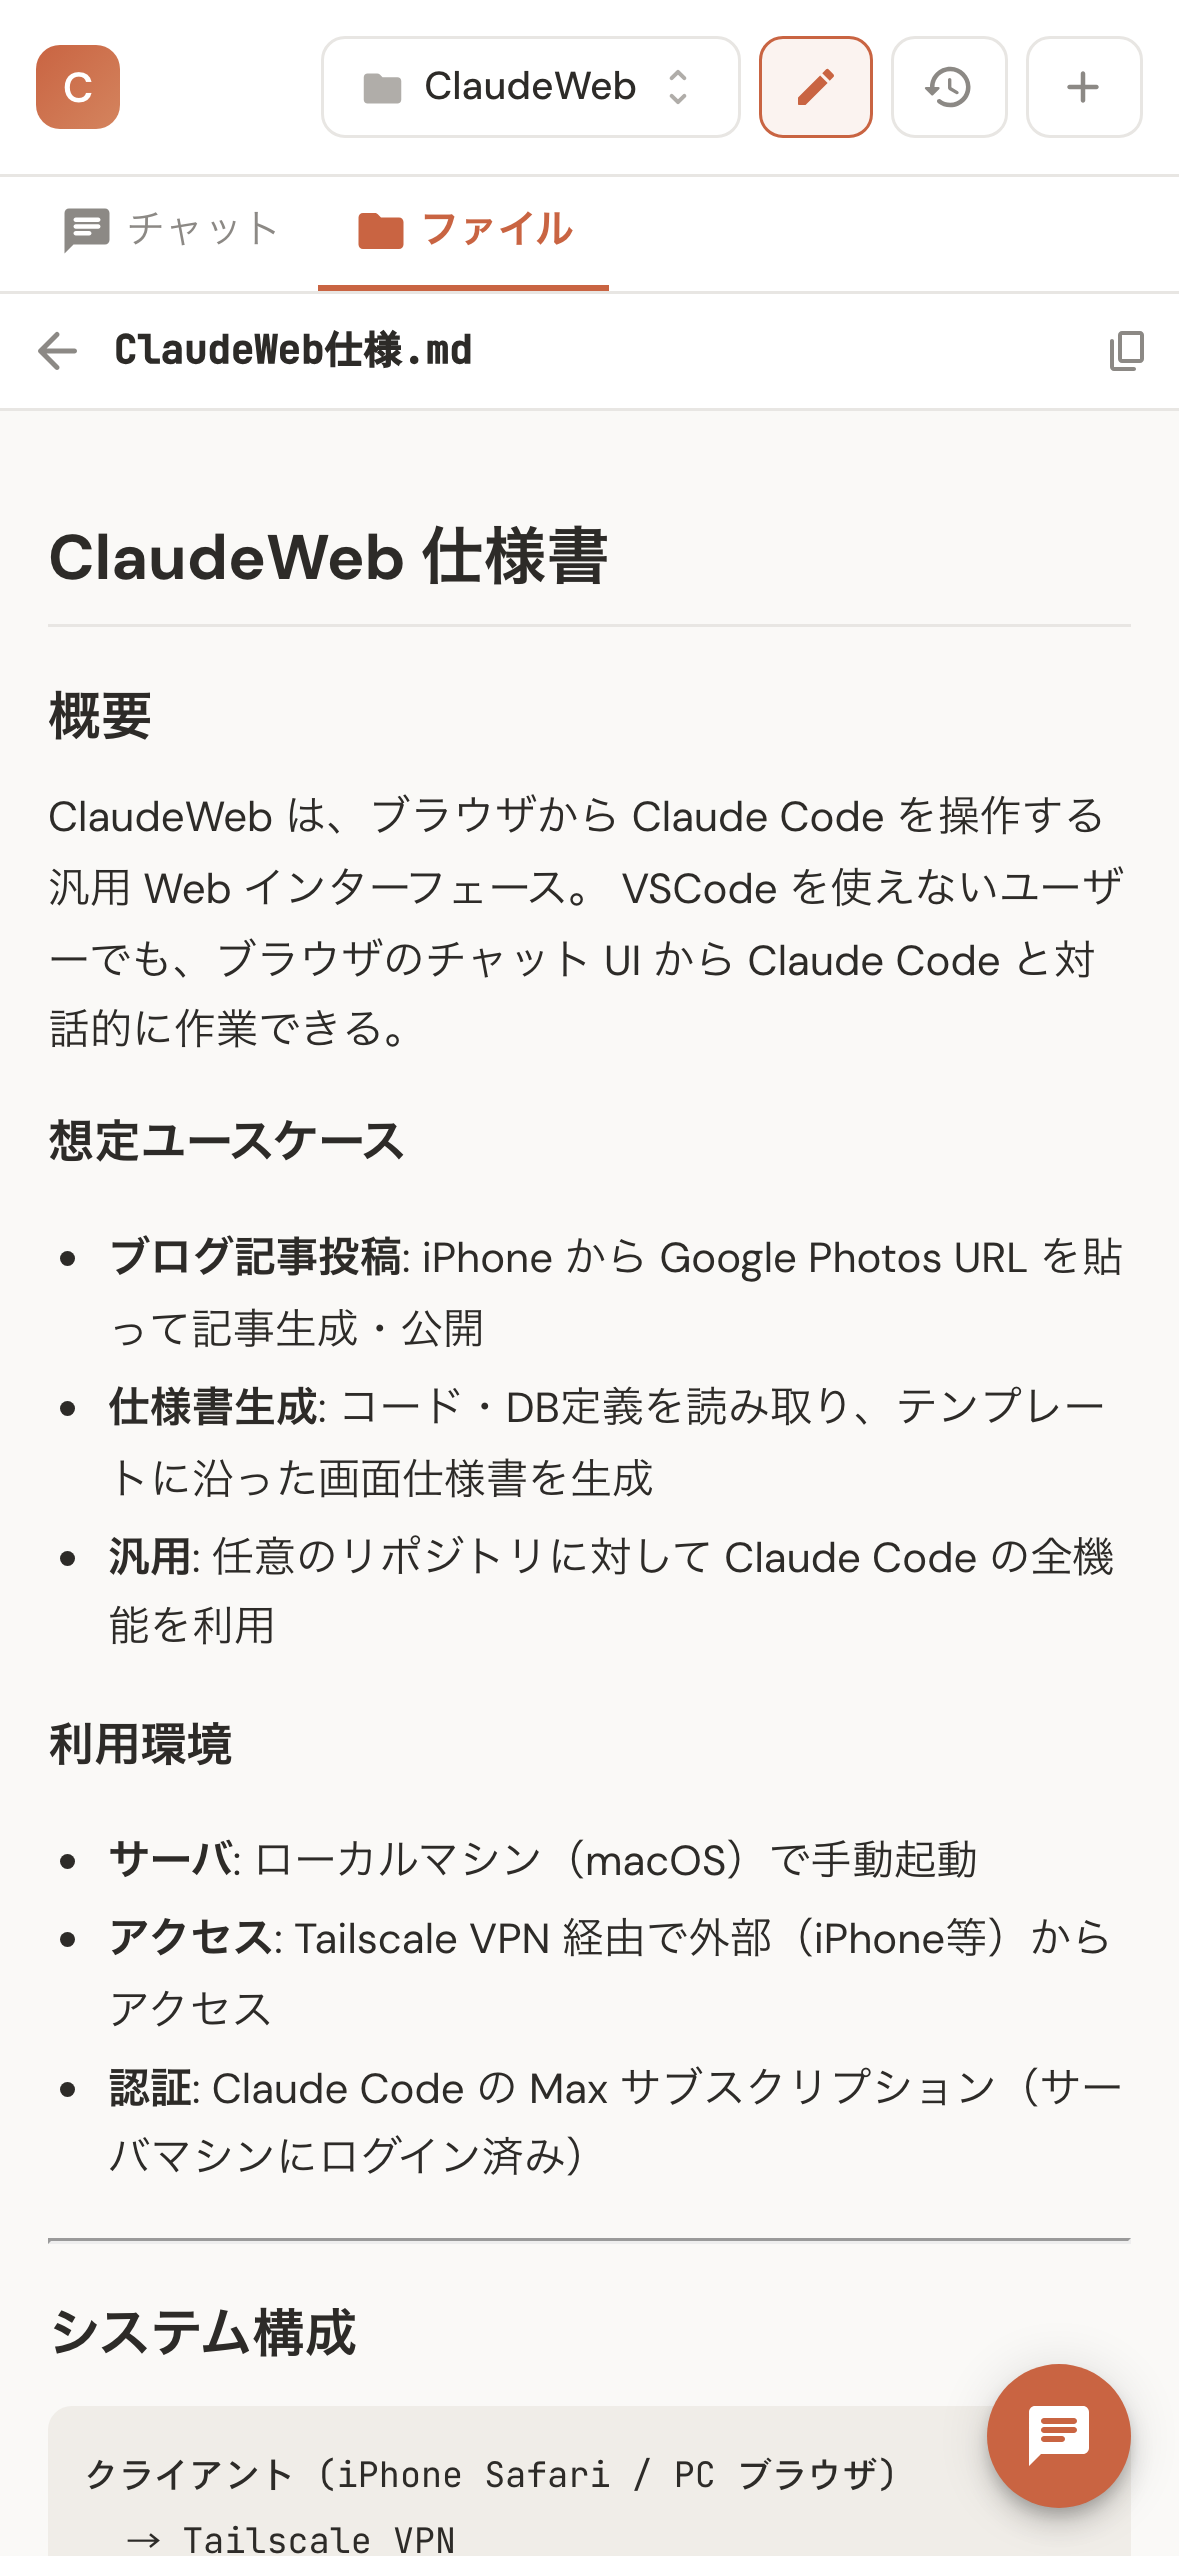
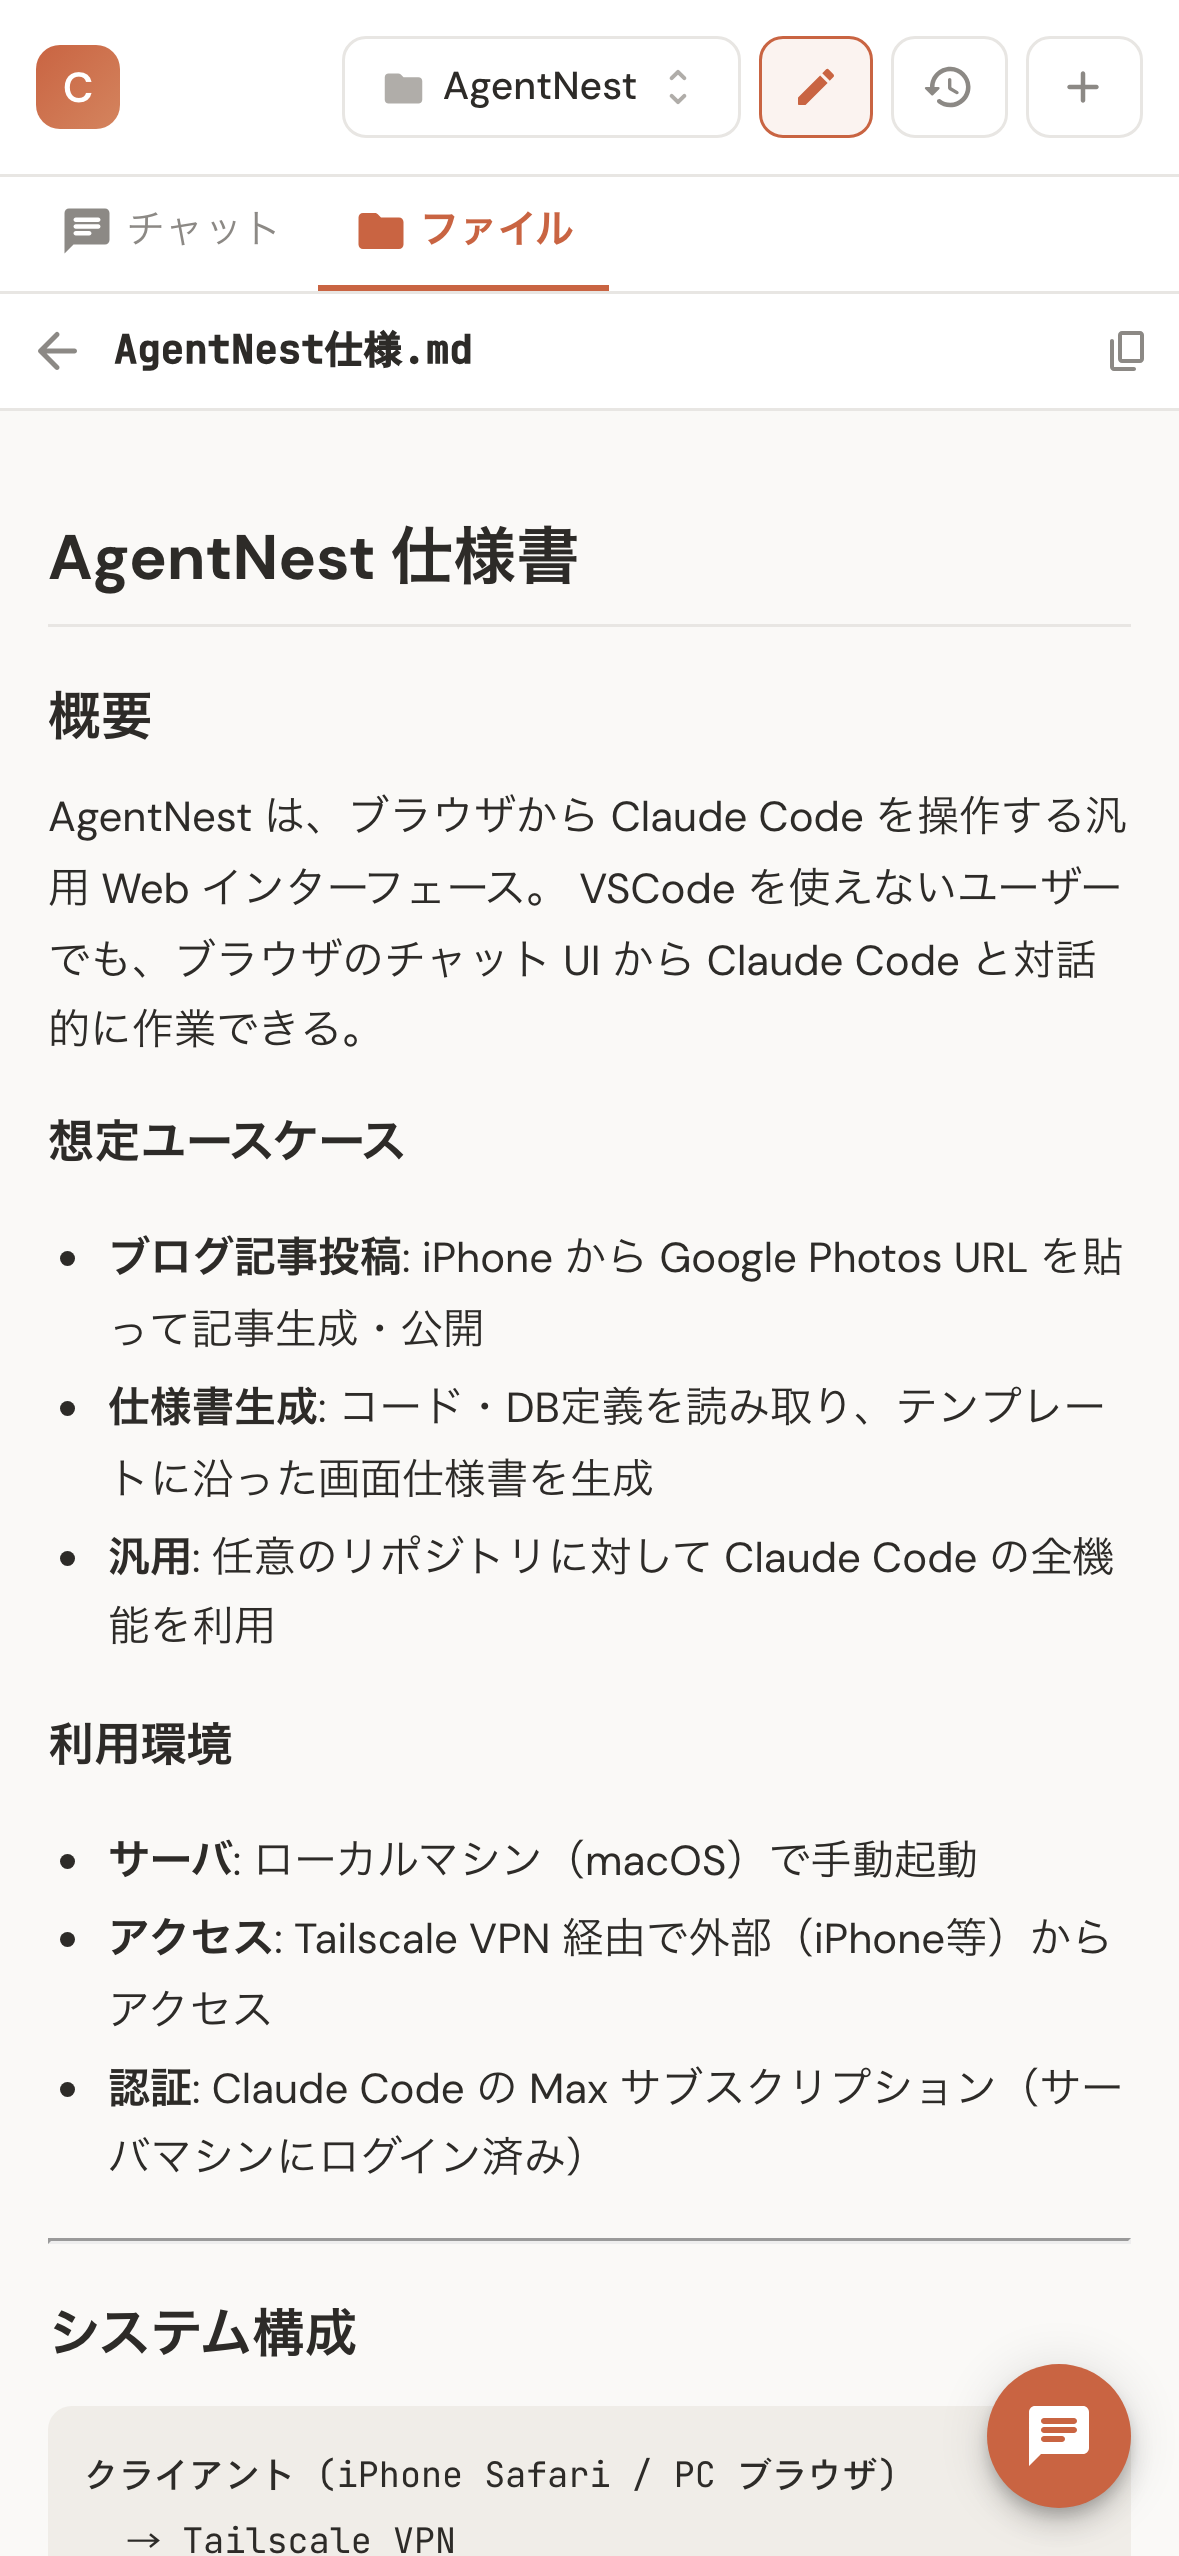
プロジェクト名をClaudeWebからAgentNestにリネーム（UI・設定・テスト・スクリーンショット）

diff --git a/tests/screenshots.spec.ts b/tests/screenshots.spec.ts
@@ -15,7 +15,7 @@ const IPHONE = {
 
 // Mock repos
 const MOCK_REPOS = [
-  { id: "ClaudeWeb", name: "ClaudeWeb", path: "/Project/ClaudeWeb" },
+  { id: "AgentNest", name: "AgentNest", path: "/Project/AgentNest" },
   { id: "VideoViewer", name: "VideoViewer", path: "/Project/VideoViewer" },
   { id: "Vidspire", name: "Vidspire", path: "/Project/Vidspire" },
   { id: "blog", name: "blog", path: "/Project/blog" },
@@ -24,7 +24,7 @@ const MOCK_REPOS = [
   { id: "VideoScope", name: "VideoScope", path: "/Project/VideoScope" },
 ];
 
-// Mock files for ClaudeWeb root
+// Mock files for AgentNest root
 const MOCK_ROOT_FILES = [
   { name: "Docs", path: "Docs", type: "directory" },
   { name: "frontend", path: "frontend", type: "directory" },
@@ -39,17 +39,17 @@ const MOCK_ROOT_FILES = [
 
 // Mock files for Docs directory
 const MOCK_DOCS_FILES = [
-  { name: "ClaudeWeb仕様.md", path: "Docs/ClaudeWeb仕様.md", type: "file", size: 9164, extension: ".md" },
+  { name: "AgentNest仕様.md", path: "Docs/AgentNest仕様.md", type: "file", size: 9164, extension: ".md" },
   { name: "web画面.md", path: "Docs/web画面.md", type: "file", size: 10423, extension: ".md" },
   { name: "実装計画.md", path: "Docs/実装計画.md", type: "file", size: 5049, extension: ".md" },
 ];
 
 // Specification file content (excerpt for beautiful screenshot)
-const SPEC_CONTENT = `# ClaudeWeb 仕様書
+const SPEC_CONTENT = `# AgentNest 仕様書
 
 ## 概要
 
-ClaudeWeb は、ブラウザから Claude Code を操作する汎用 Web インターフェース。
+AgentNest は、ブラウザから Claude Code を操作する汎用 Web インターフェース。
 VSCode を使えないユーザーでも、ブラウザのチャット UI から Claude Code と対話的に作業できる。
 
 ### 想定ユースケース
@@ -72,7 +72,7 @@ VSCode を使えないユーザーでも、ブラウザのチャット UI から
 クライアント (iPhone Safari / PC ブラウザ)
   → Tailscale VPN
     → Mac (localhost:3000)
-      → ClaudeWeb サーバ (Express)
+      → AgentNest サーバ (Express)
         → Claude Code SDK (@anthropic-ai/claude-code)
           → 対象リポジトリのファイルシステムを直接操作
 \`\`\`
@@ -95,7 +95,7 @@ VSCode を使えないユーザーでも、ブラウザのチャット UI から
 
 \`\`\`
 ┌─────────────────────────────────────┐
-│ ClaudeWeb        [リポジトリ選択 ▼] │
+│ AgentNest        [リポジトリ選択 ▼] │
 ├─────────────────────────────────────┤
 │                                     │
 │  🤖 どのような作業をしますか？       │
@@ -147,8 +147,8 @@ async function selectRepo(page: import("@playwright/test").Page) {
   await trigger.click();
   await page.waitForTimeout(400);
 
-  // Click ClaudeWeb in the dropdown list (avoid the header title)
-  const dropdownItem = page.locator('[class*="MuiCollapse"] >> text=ClaudeWeb');
+  // Click AgentNest in the dropdown list (avoid the header title)
+  const dropdownItem = page.locator('[class*="MuiCollapse"] >> text=AgentNest');
   await dropdownItem.click();
   await page.waitForTimeout(600);
 }
@@ -215,7 +215,7 @@ test.describe("iPhone Screenshots", () => {
     await page.waitForTimeout(400);
 
     // Click spec file
-    await page.click("text=ClaudeWeb仕様.md");
+    await page.click("text=AgentNest仕様.md");
     await page.waitForTimeout(800);
 
     await page.screenshot({
@@ -242,12 +242,12 @@ test.describe("iPhone Screenshots", () => {
           `data: ${JSON.stringify({
             type: "tool_result",
             toolName: "Bash",
-            content: "ls -la Docs/\ntotal 48\n-rw-r--r--  9164 ClaudeWeb仕様.md\n-rw-r--r-- 10423 web画面.md\n-rw-r--r--  5049 実装計画.md",
+            content: "ls -la Docs/\ntotal 48\n-rw-r--r--  9164 AgentNest仕様.md\n-rw-r--r-- 10423 web画面.md\n-rw-r--r--  5049 実装計画.md",
           })}`,
           `data: ${JSON.stringify({
             type: "text",
             content:
-              "プロジェクトの構成を確認しました。\n\n**ClaudeWeb**はブラウザから Claude Code を操作するWebアプリです：\n\n- `frontend/` — React + Vite UI\n- `server/` — Express API + Claude Code SDK\n- `Docs/` — 仕様書・設計ドキュメント\n\n何か変更しますか？",
+              "プロジェクトの構成を確認しました。\n\n**AgentNest**はブラウザから Claude Code を操作するWebアプリです：\n\n- `frontend/` — React + Vite UI\n- `server/` — Express API + Claude Code SDK\n- `Docs/` — 仕様書・設計ドキュメント\n\n何か変更しますか？",
           })}`,
           `data: ${JSON.stringify({ type: "done", sessionId: "s1" })}`
         );
@@ -268,7 +268,7 @@ test.describe("iPhone Screenshots", () => {
     await selectRepo(page);
 
     // Type and send message
-    const textarea = page.getByRole("textbox", { name: "Message ClaudeWeb..." });
+    const textarea = page.getByRole("textbox", { name: "Message AgentNest..." });
     await textarea.tap();
     await textarea.fill("プロジェクトの構成を教えて");
     await page.waitForTimeout(200);

diff --git a/frontend/src/App.tsx b/frontend/src/App.tsx
@@ -37,19 +37,31 @@ const theme = createTheme({
 });
 
 export default function App() {
+  const loadAutoEditPreference = () => {
+    const currentValue = localStorage.getItem("agent-nest-auto-edit");
+    if (currentValue !== null) return currentValue !== "false";
+
+    const legacyValue = localStorage.getItem("claudeweb-auto-edit");
+    if (legacyValue !== null) {
+      localStorage.setItem("agent-nest-auto-edit", legacyValue);
+      localStorage.removeItem("claudeweb-auto-edit");
+      return legacyValue !== "false";
+    }
+
+    return true;
+  };
+
   const [repoId, setRepoId] = useState("");
   const [chatKey, setChatKey] = useState(0);
   const [sessionId, setSessionId] = useState<string | null>(null);
   const [initialMessages, setInitialMessages] = useState<Message[]>([]);
   const [initialSessionId, setInitialSessionId] = useState<string | null>(null);
   const [activeTab, setActiveTab] = useState<"chat" | "files">("chat");
-  const [autoEdit, setAutoEdit] = useState(
-    () => localStorage.getItem("claudeweb-auto-edit") !== "false"
-  );
+  const [autoEdit, setAutoEdit] = useState(loadAutoEditPreference);
 
   const handleAutoEditChange = (value: boolean) => {
     setAutoEdit(value);
-    localStorage.setItem("claudeweb-auto-edit", String(value));
+    localStorage.setItem("agent-nest-auto-edit", String(value));
   };
 
   const handleRepoChange = useCallback((newRepoId: string) => {

diff --git a/tests/file-browser.spec.ts b/tests/file-browser.spec.ts
@@ -128,8 +128,8 @@ test.describe("Tab switching", () => {
     await page.goto("/");
     await selectRepo(page);
 
-    // Chat input should be visible (after selecting repo, placeholder becomes "Message ClaudeWeb...")
-    await expect(page.getByPlaceholder("Message ClaudeWeb...")).toBeVisible();
+    // Chat input should be visible (after selecting repo, placeholder becomes "Message AgentNest...")
+    await expect(page.getByPlaceholder("Message AgentNest...")).toBeVisible();
   });
 
   test("switching to files tab shows file explorer", async ({ page }) => {
@@ -153,7 +153,7 @@ test.describe("Tab switching", () => {
     await expect(page.getByText("README.md")).toBeVisible();
 
     await switchToChatTab(page);
-    await expect(page.getByPlaceholder("Message ClaudeWeb...")).toBeVisible();
+    await expect(page.getByPlaceholder("Message AgentNest...")).toBeVisible();
   });
 });
 
@@ -382,6 +382,6 @@ test.describe("File viewer", () => {
     await page.locator("button.MuiFab-root").click();
 
     // Should switch to chat tab
-    await expect(page.getByPlaceholder("Message ClaudeWeb...")).toBeVisible();
+    await expect(page.getByPlaceholder("Message AgentNest...")).toBeVisible();
   });
 });

diff --git a/tests/chat.spec.ts b/tests/chat.spec.ts
@@ -32,7 +32,7 @@ async function selectRepo(page: Page) {
 
 /** Type a message and send it */
 async function sendMessage(page: Page, message: string) {
-  const input = page.getByPlaceholder("Message ClaudeWeb...");
+  const input = page.getByPlaceholder("Message AgentNest...");
   await input.fill(message);
   await input.press("Enter");
 }
@@ -217,7 +217,7 @@ test.describe("Reconnection", () => {
 
     // After all retries fail, the failure message should appear
     await expect(
-      page.getByText("Connection lost. Reconnection failed.")
+      page.getByText("サーバーに接続できません。サーバーが起動しているか確認してください。")
     ).toBeVisible({ timeout: 15000 });
   });
 

diff --git a/electron/app.html b/electron/app.html
@@ -3,7 +3,7 @@
 <head>
   <meta charset="UTF-8">
   <meta name="viewport" content="width=device-width, initial-scale=1.0">
-  <title>ClaudeWeb</title>
+  <title>AgentNest</title>
   <style>
     * { margin: 0; padding: 0; box-sizing: border-box; }
     :root {
@@ -241,13 +241,13 @@
 </head>
 <body>
   <div class="titlebar">
-    <span class="titlebar-title">ClaudeWeb</span>
+    <span class="titlebar-title">AgentNest</span>
   </div>
 
   <div class="content">
     <!-- ロゴ -->
     <div class="logo">C</div>
-    <div class="app-name">ClaudeWeb</div>
+    <div class="app-name">AgentNest</div>
 
     <!-- ステータス -->
     <div class="status-section">

diff --git a/frontend/index.html b/frontend/index.html
@@ -9,7 +9,7 @@
     <meta name="theme-color" content="#C96442" />
     <meta name="apple-mobile-web-app-capable" content="yes" />
     <meta name="apple-mobile-web-app-status-bar-style" content="default" />
-    <title>ClaudeWeb</title>
+    <title>AgentNest</title>
     <link rel="preconnect" href="https://fonts.googleapis.com" />
     <link rel="preconnect" href="https://fonts.gstatic.com" crossorigin />
     <link href="https://fonts.googleapis.com/css2?family=DM+Sans:ital,opsz,wght@0,9..40,300..700;1,9..40,300..700&family=JetBrains+Mono:wght@400;500&display=swap" rel="stylesheet" />

diff --git a/frontend/src/components/MessageInput.tsx b/frontend/src/components/MessageInput.tsx
@@ -219,7 +219,7 @@ export default function MessageInput({ onSend, onStop, disabled, isLoading }: Pr
 
         <InputBase
           fullWidth
-          placeholder={disabled && !isLoading ? "リポジトリを選択してください" : "Message ClaudeWeb..."}
+          placeholder={disabled && !isLoading ? "リポジトリを選択してください" : "Message AgentNest..."}
           value={text}
           onChange={(e) => setText(e.target.value)}
           onKeyDown={(e) => {

diff --git a/electron/tray.ts b/electron/tray.ts
@@ -28,13 +28,13 @@ export function createTray(
   }
 ): Tray {
   tray = new Tray(createTrayIcon());
-  tray.setToolTip("ClaudeWeb");
+  tray.setToolTip("AgentNest");
 
   const updateMenu = () => {
     const running = serverManager.running;
     const contextMenu = Menu.buildFromTemplate([
       {
-        label: "ClaudeWeb を表示",
+        label: "AgentNest を表示",
         click: () => {
           mainWindow.show();
           mainWindow.focus();

diff --git a/tests/sessions.spec.ts b/tests/sessions.spec.ts
@@ -132,7 +132,7 @@ test.describe("Session history", () => {
     await expect(page.getByText("テストを追加しました。")).toBeVisible();
 
     // User can send a new message to continue the session
-    const input = page.getByPlaceholder("Message ClaudeWeb...");
+    const input = page.getByPlaceholder("Message AgentNest...");
     await input.fill("もう一つ修正して");
     await input.press("Enter");
 

diff --git a/server/routes/sessions.ts b/server/routes/sessions.ts
@@ -9,7 +9,7 @@ const CLAUDE_DIR = join(homedir(), ".claude", "projects");
 
 /** Convert a repo path to the Claude Code session directory name */
 function encodeProjectPath(repoPath: string): string {
-  // e.g. /path/to/projects/ClaudeWeb → -path-to-projects-ClaudeWeb
+  // e.g. /path/to/projects/AgentNest → -path-to-projects-AgentNest
   return repoPath.replace(/\//g, "-");
 }
 

diff --git a/frontend/src/components/Header.tsx b/frontend/src/components/Header.tsx
@@ -78,7 +78,7 @@ export default function Header({ repoId, onRepoChange, onNewChat, onResumeSessio
             display: { xs: "none", sm: "block" },
           }}
         >
-          ClaudeWeb
+          AgentNest
         </Typography>
       </Box>
 
